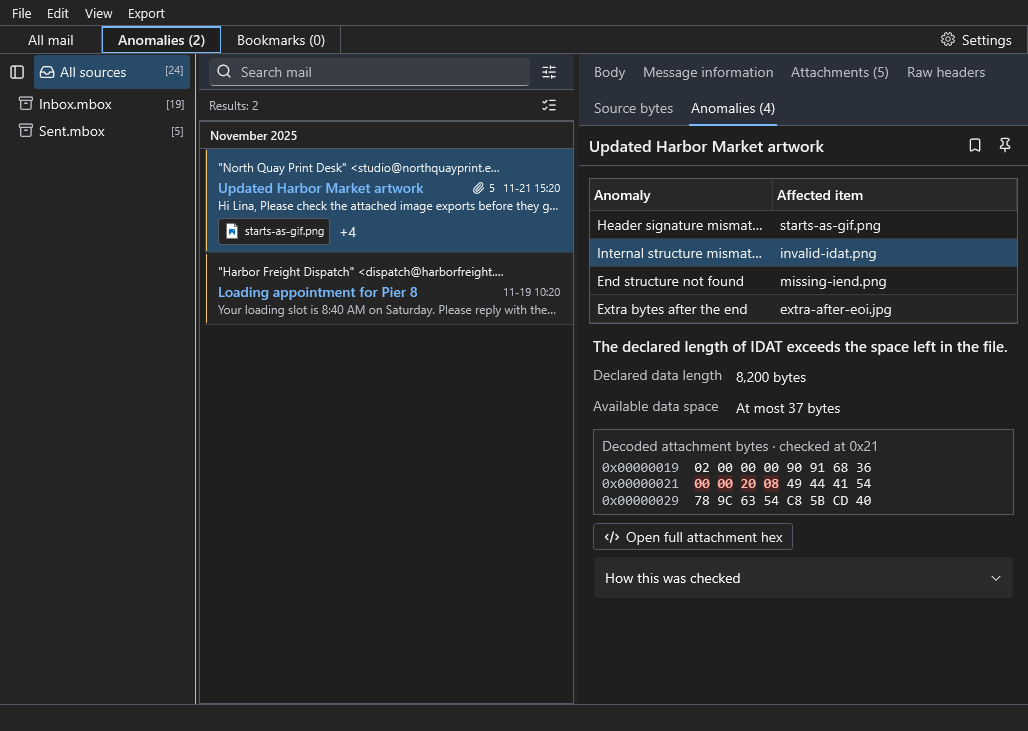
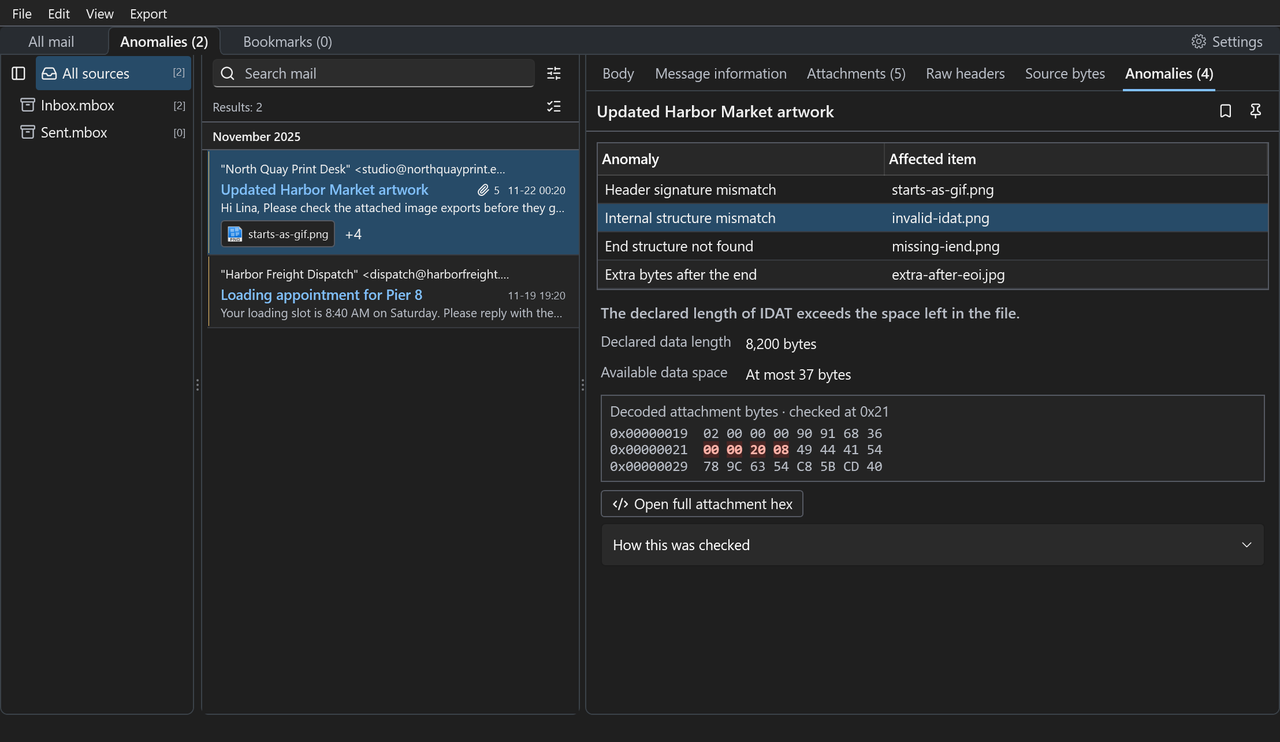
Release Mail Evidence 1.6.3 with refreshed README media

Changed region(s): [[0.0, 0.0, 1.0, 0.9631], [0.5914, 0.7825, 0.716, 0.8126]]

diff --git a/tools/run-flow-smoke.py b/tools/run-flow-smoke.py
@@ -9,19 +9,19 @@ from pathlib import Path
 
 
 def main():
-    workspace = Path(__file__).resolve().parents[2]
+    workspace = Path(__file__).resolve().parents[1]
     parser = argparse.ArgumentParser()
     parser.add_argument("output", type=Path)
     parser.add_argument("--theme", choices=("light", "dark"))
-    parser.add_argument("--scenario", choices=("readme-demo", "mail", "msg", "pst", "ost", "ost-expanded", "investigation", "mailbox-folders", "mailbox-marks", "attachment-boundaries", "reader-attachments", "mail-fields", "startup-focus", "find-sources", "disk-image", "formats"), default="mail")
+    parser.add_argument("--scenario", choices=("formats", "readme-demo", "mail", "msg", "pst", "ost", "ost-expanded", "investigation", "mailbox-folders", "mailbox-marks", "attachment-boundaries", "reader-attachments", "mail-fields", "startup-focus", "find-sources", "disk-image", "languages"), default="mail")
     parser.add_argument("--executable", type=Path)
     args = parser.parse_args()
-    smoke = args.executable.resolve() if args.executable else workspace / "Mail-Viewer/tools/FlowSmoke/bin/Release/net10.0-windows/FlowSmoke.exe"
+    smoke = args.executable.resolve() if args.executable else workspace / "tools/FlowSmoke/bin/Release/net10.0-windows/FlowSmoke.exe"
     if not smoke.is_file():
         parser.error(f"Build FlowSmoke in Release first: {smoke}")
     output = args.output.resolve()
     output.mkdir(parents=True, exist_ok=False)
-    launcher = runpy.run_path(str(workspace / "Mail-Viewer-Research/fixtures/probe-windows-desktop.py"))
+    launcher = runpy.run_path(str(workspace / "tools/probe-windows-desktop.py"))
     desktop_name = f"MailViewerSmoke_{os.getpid()}_{uuid.uuid4().hex}"
     desktop = launcher["create_desktop"](desktop_name, None, None, 0, 0x01FF, None)
     if not desktop:

diff --git a/tools/update-readme-media.py b/tools/update-readme-media.py
@@ -134,6 +134,7 @@ def main():
     root = Path(__file__).resolve().parents[1]
     parser = argparse.ArgumentParser(description=__doc__)
     parser.add_argument("--output", type=Path, default=root / "docs/media")
+    parser.add_argument("--frames-output", type=Path, help="Save the individual demo scenes as PNGs.")
     args = parser.parse_args()
     if sys.platform != "win32":
         parser.error("README media capture requires Windows.")
@@ -149,7 +150,7 @@ def main():
         run = subprocess.run(
             [sys.executable, str(root / "tools/run-flow-smoke.py"), str(captures),
              "--scenario", "readme-demo", "--executable",
-             str(artifacts / "bin/FlowSmoke/release/FlowSmoke.exe")],
+             str(artifacts / "bin/FlowSmoke/release/FlowSmoke.exe"), "--theme", "dark"],
             cwd=root, env=env
         )
         if run.returncode:
@@ -158,6 +159,11 @@ def main():
                 print(failure.read_text(encoding="utf-8"), file=sys.stderr)
             run.check_returncode()
         render(captures, args.output.resolve())
+        if args.frames_output is not None:
+            args.frames_output.mkdir(parents=True, exist_ok=True)
+            for name, _, _ in SCENES:
+                with Image.open(captures / name) as scene:
+                    scene.save(args.frames_output / name, optimize=True)
 
 
 if __name__ == "__main__":
